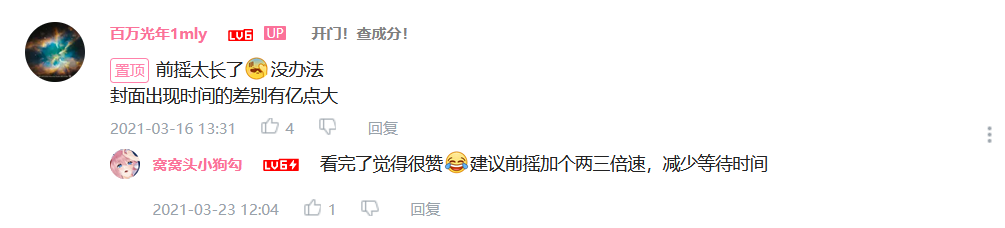
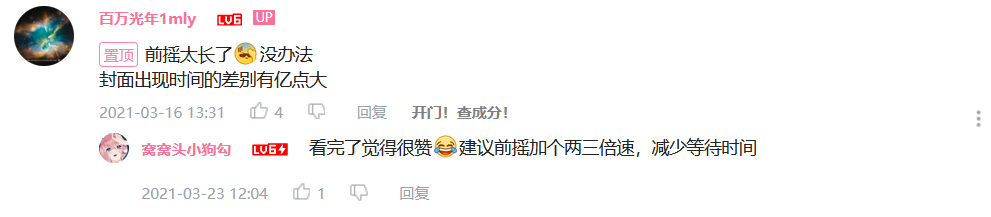
单击UP主ID链接改为默认新建标签页打开空间;更新图片以适配新改动

Changed region(s): [[0.0, 0.0276, 0.7871, 0.8018], [0.1514, 0.8295, 0.4541, 0.9677], [0.9687, 0.553, 0.999, 0.5806]]

diff --git a/FBIOpenTheDoor.user.js b/FBIOpenTheDoor.user.js
@@ -187,7 +187,7 @@ div.con div.reply-item:hover a.${CLASS_Gateway} {
         statDOM.classList.add(CLASS_StatDOM);
         statDOM.style.backgroundColor = pallete[no];
         statDOM.style.width = `${Math.floor(this.forwardCounter[key].count / total * 100)}%`;  // 宽度与数量成比例
-        statDOM.innerHTML = `<a href='//space.bilibili.com/${key}'>${this.forwardCounter[key].name}</a>(${this.forwardCounter[key].count}, ${statDOM.style.width})`;
+        statDOM.innerHTML = `<a target="_blank" href='//space.bilibili.com/${key}'>${this.forwardCounter[key].name}</a>(${this.forwardCounter[key].count}, ${statDOM.style.width})`;
         statDOM.onmouseover = () => {
           if (this.statDOMs.length > 1)
             statDOM.style.width = `max(calc(${Math.floor(this.forwardCounter[key].count / total * 100)}%), calc(${statDOM.innerText.length + 2}em))`;  // 显示所有的字，为数字和半角括号增加冗余空间

diff --git a/README.md b/README.md
@@ -14,9 +14,13 @@ Github Languages风格的指示条。
 
 ![image-20220911223806212](2.png)
 
-按UP主分类统计转发动态条数：
+按UP主分类统计转发动态条数，单击UP主ID访问该UP主的空间：
 
 ![image-20220911223825950](3.png)
+
+评论区楼中楼也可查询！
+
+![image](4.png)
 
 ### 特别感谢
 

diff --git a/patch.md b/patch.md
@@ -1,3 +1,9 @@
+#### v0.3
+
+1. 增加了对于评论区楼中楼的支持；
+2. 修改了查询入口链接的位置（现在在“回复”按钮的旁边）；
+3. 现在，单击成分条里的UP主ID将默认开启新标签页打开链接。
+
 #### v0.2
 
 1. 解决了认证粉丝牌阻挡鼠标的issue；
